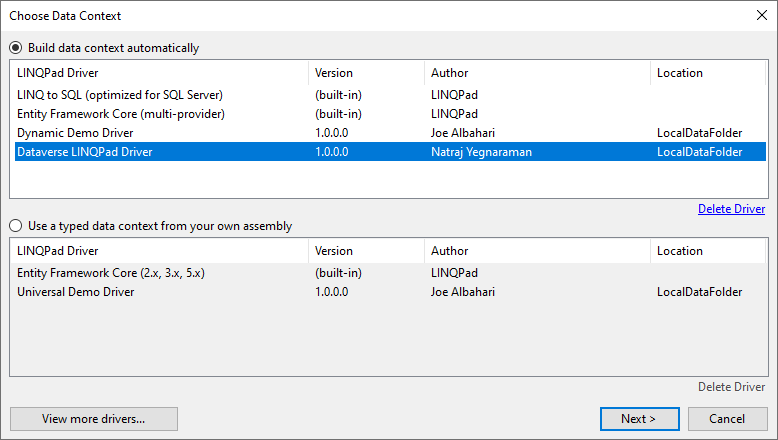
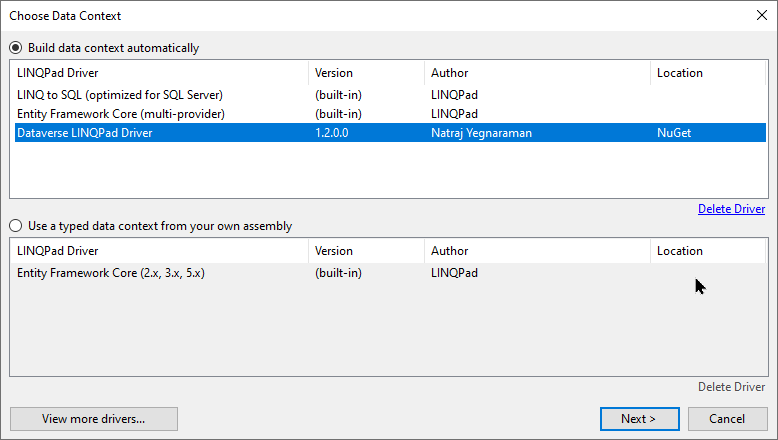
update doc

diff --git a/README.md b/README.md
@@ -6,6 +6,14 @@ This new driver is a dynamic driver that uses [Microsoft.PowerPlatform.Cds.Clien
 
 The _Microsoft.PowerPlatform.Cds.Client_ package is still in alpha, so there might be some naming changes/bugs which you can log in this repo for me to triage. I can then either fix it in the driver, or report it on the _Microsoft.PowerPlatform.Cds.Client_ repo, if it is not a driver code issue.
 
+# Installing
+
+You can install the driver from LINQPad from nuget. Click on View more drivers, and then choose "Show all drivers". Search for Dataverse and you should be able to see the driver and install it.
+
+![View more drivers](images/newconnection.png)
+
+![Install](images/install.png)
+
 # Connecting to your Dataverse Environment
 
 [Microsoft.PowerPlatform.Cds.Client](https://github.com/microsoft/PowerPlatform-CdsServiceClient) supports three kinds of authentication:
@@ -16,7 +24,7 @@ The _Microsoft.PowerPlatform.Cds.Client_ package is still in alpha, so there mig
 
 After installing the driver from nuget, you can start using this driver by clicking _Add Connection_ link on LINQPad. You will be presented with the dialog below.
 
-![Connection](images/newconnection.png)
+![Connection Details](images/connection%20details.png)
 
 You can then choose the appropriate connection method and enter the connection details. [Scott Durow](https://twitter.com/scottdurow) has as great video on YouTube on how to do this, which you can use to setup your Application Registration and create the Application User. The redirect URL in the Application registration has to be **http://localhost**
 
